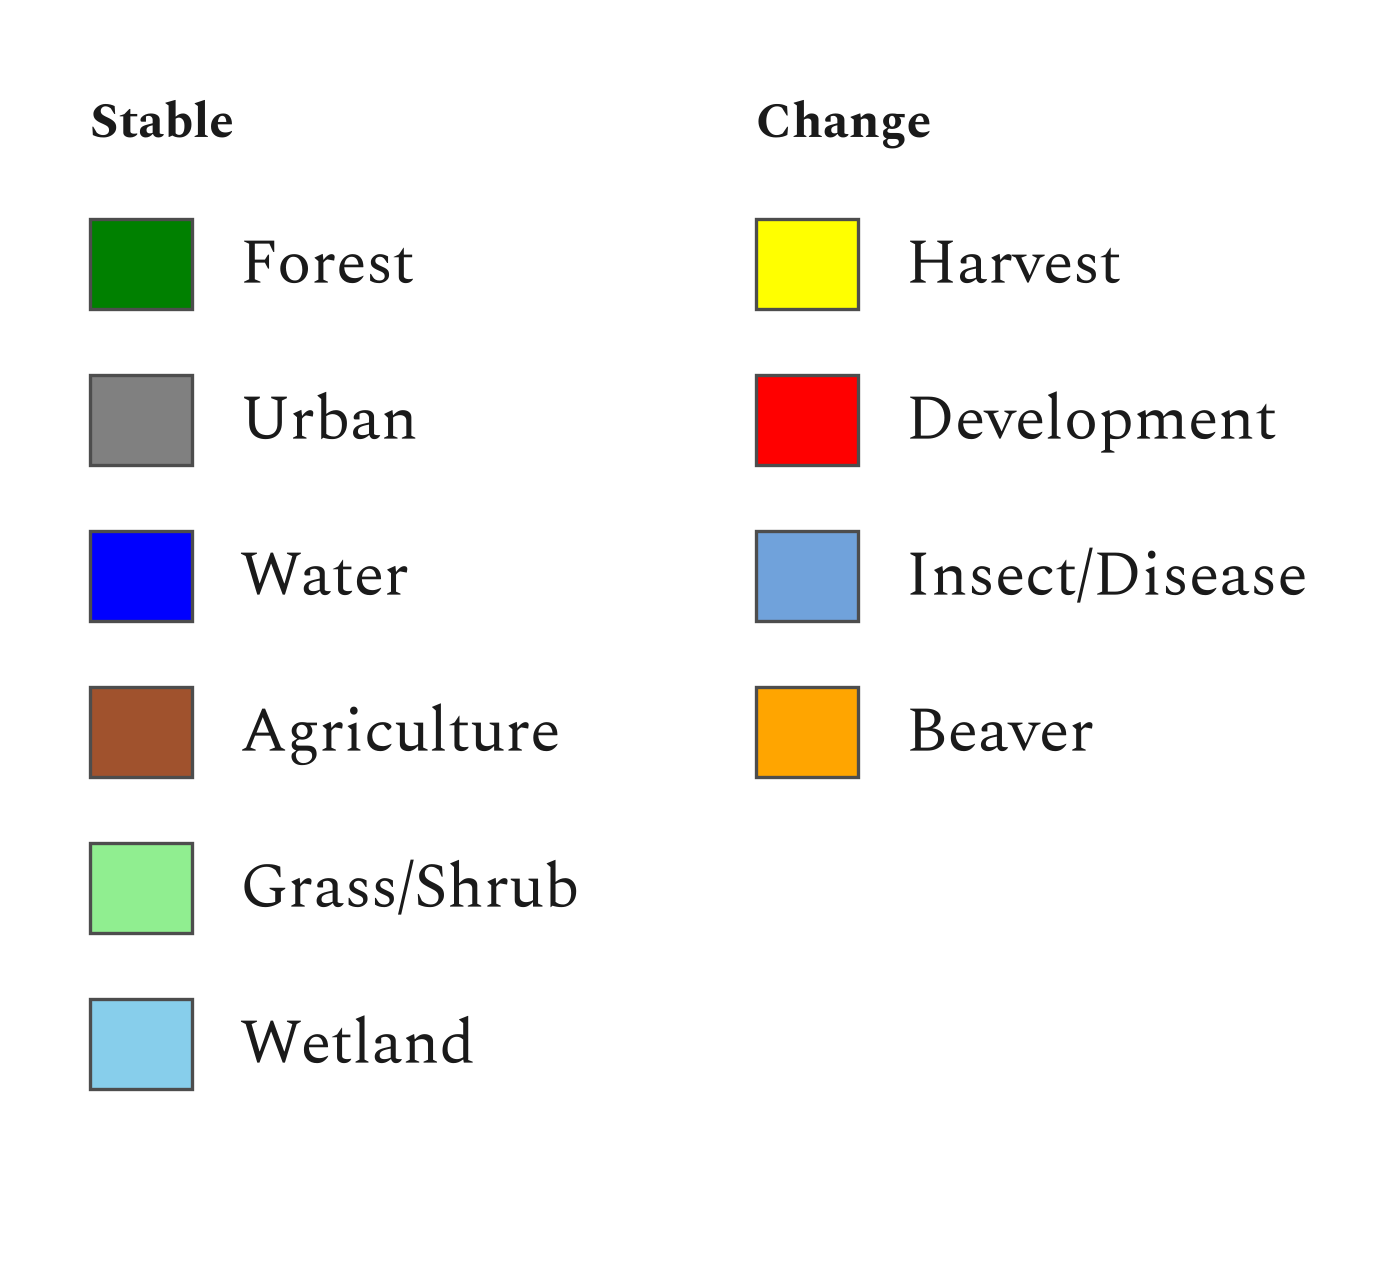
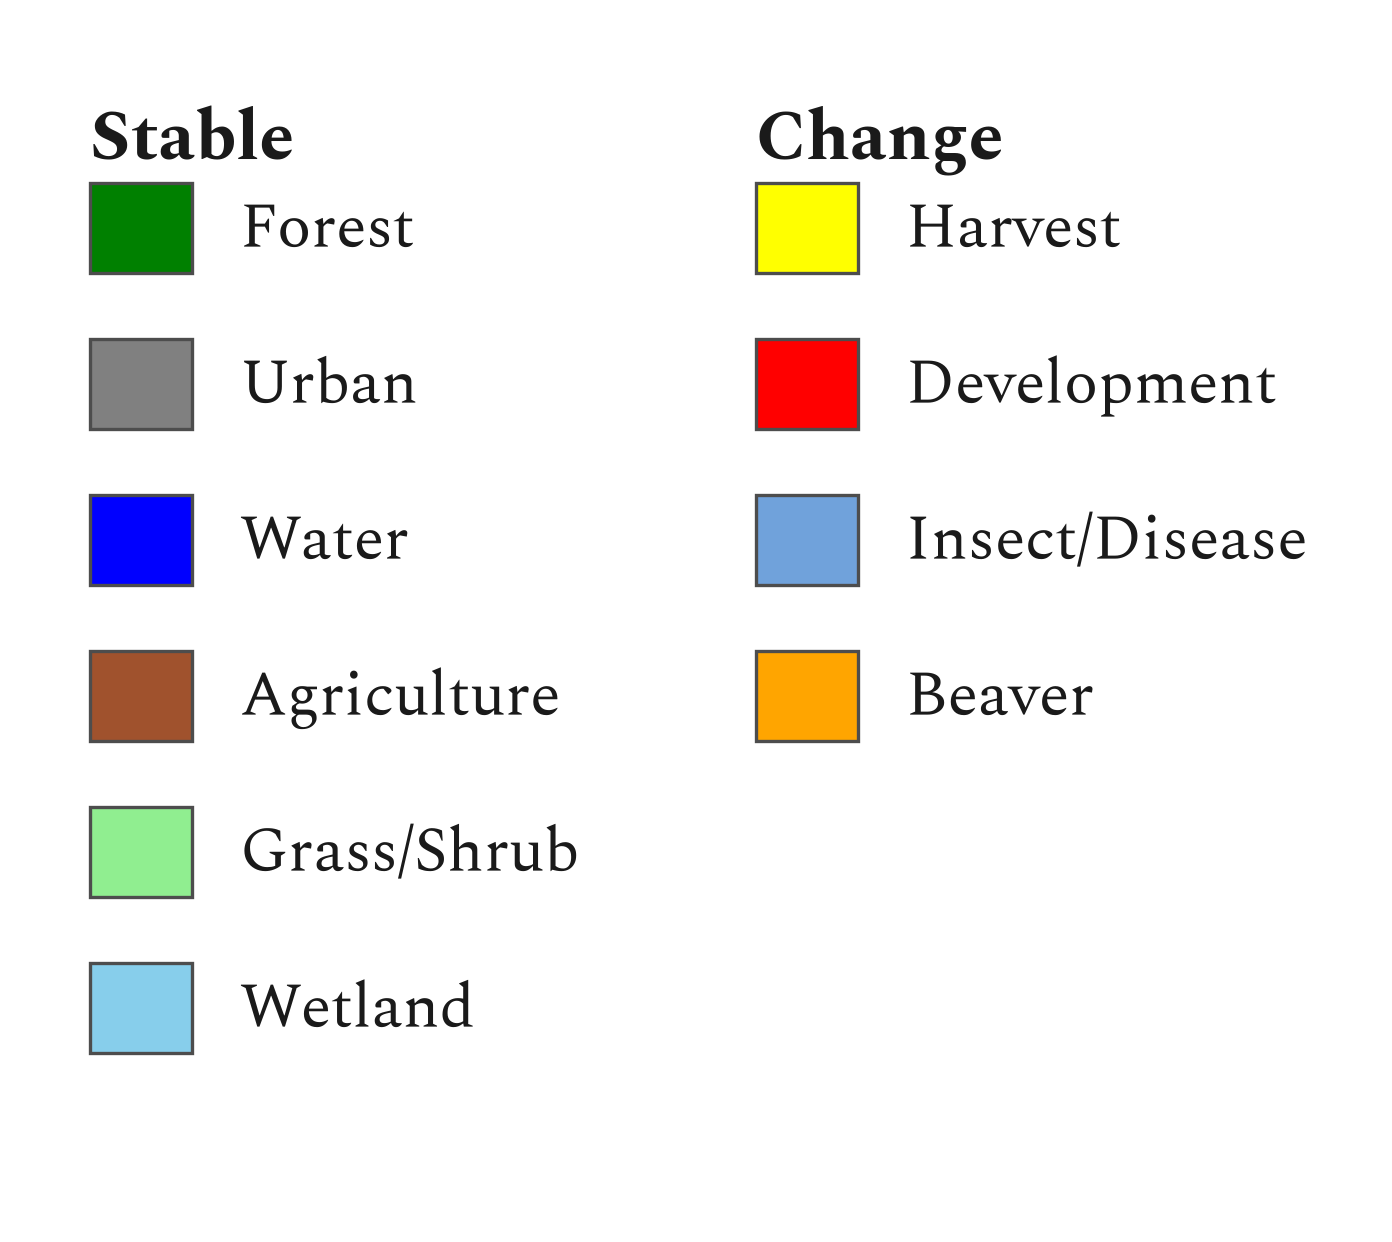
pres_10class_legend: headers at title size (label+2), tighter to rows

diff --git a/presentation/scripts/pres_10class_legend.py b/presentation/scripts/pres_10class_legend.py
@@ -39,11 +39,11 @@ NAME10 = {1: "Harvest", 2: "Development", 3: "Forest", 4: "Urban", 5: "Water",
 STABLE = [3, 4, 5, 6, 7, 8]        # no-change classes, display order
 CHANGE = [1, 2, 10, 9]             # disturbance classes, display order
 
-LABEL_FS, HDR_FS = 15, 12
+LABEL_FS, HDR_FS = 15, 17     # headers two points larger than the class labels
 SW, SH, PAD = 0.34, 0.30, 0.16     # swatch width, height, swatch-to-label gap (in)
 RP = 0.52                          # row pitch (in)
 LM, RM, TOPM, BOTM = 0.3, 0.3, 0.28, 0.28
-HDR_GAP, COLGAP = 0.34, 0.6        # header-to-first-row gap, gap between the two columns (in)
+HDR_GAP, COLGAP = 0.22, 0.6        # header-to-first-row gap, gap between the two columns (in)
 SWATCH_EDGE = "0.3"
 
 
